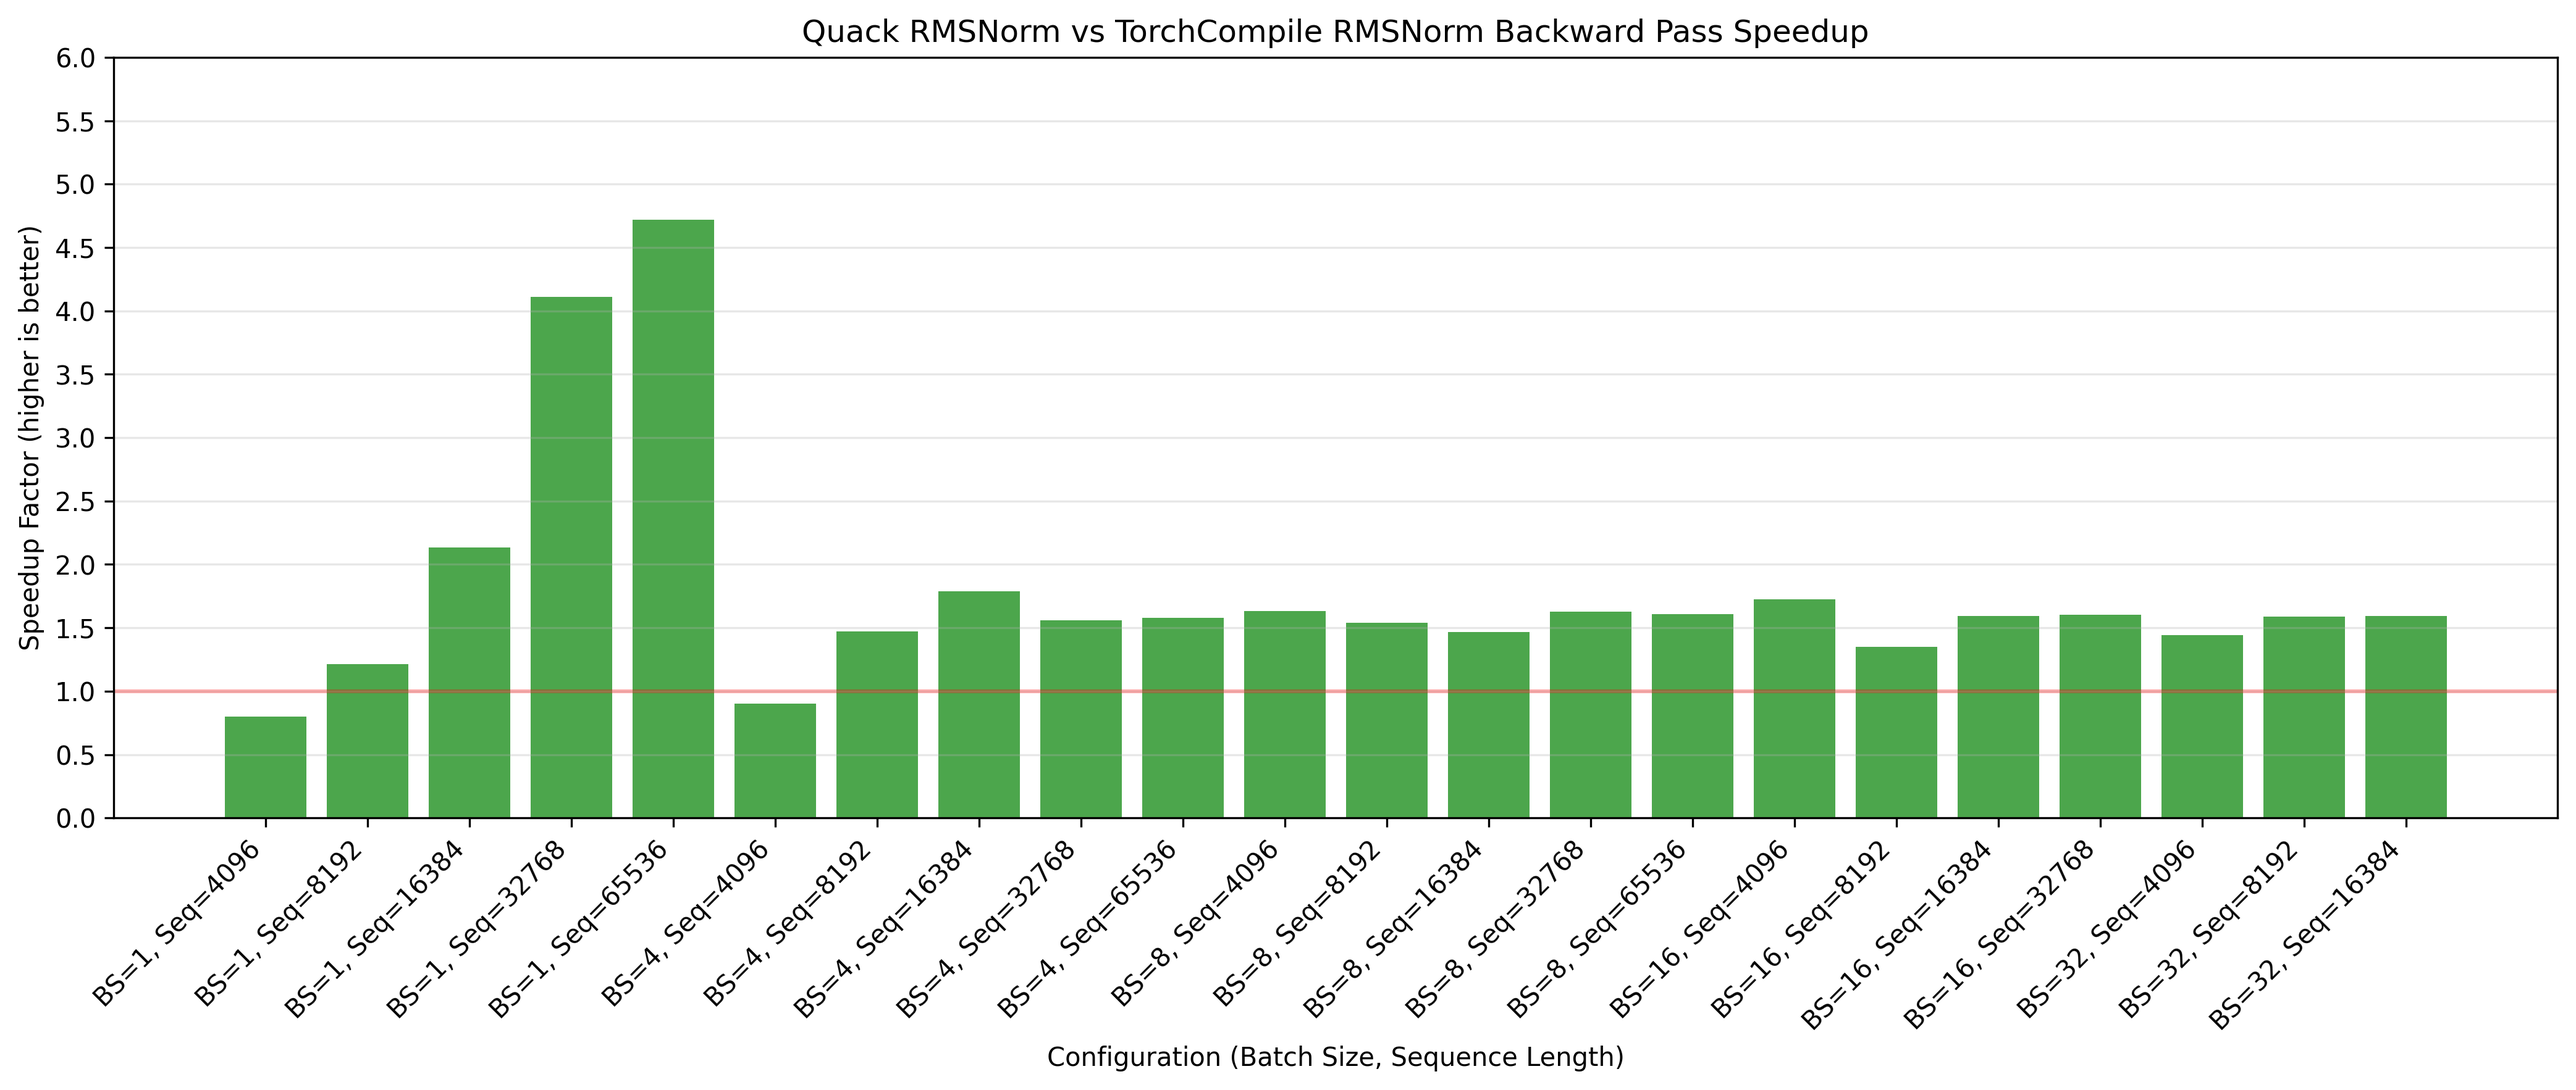
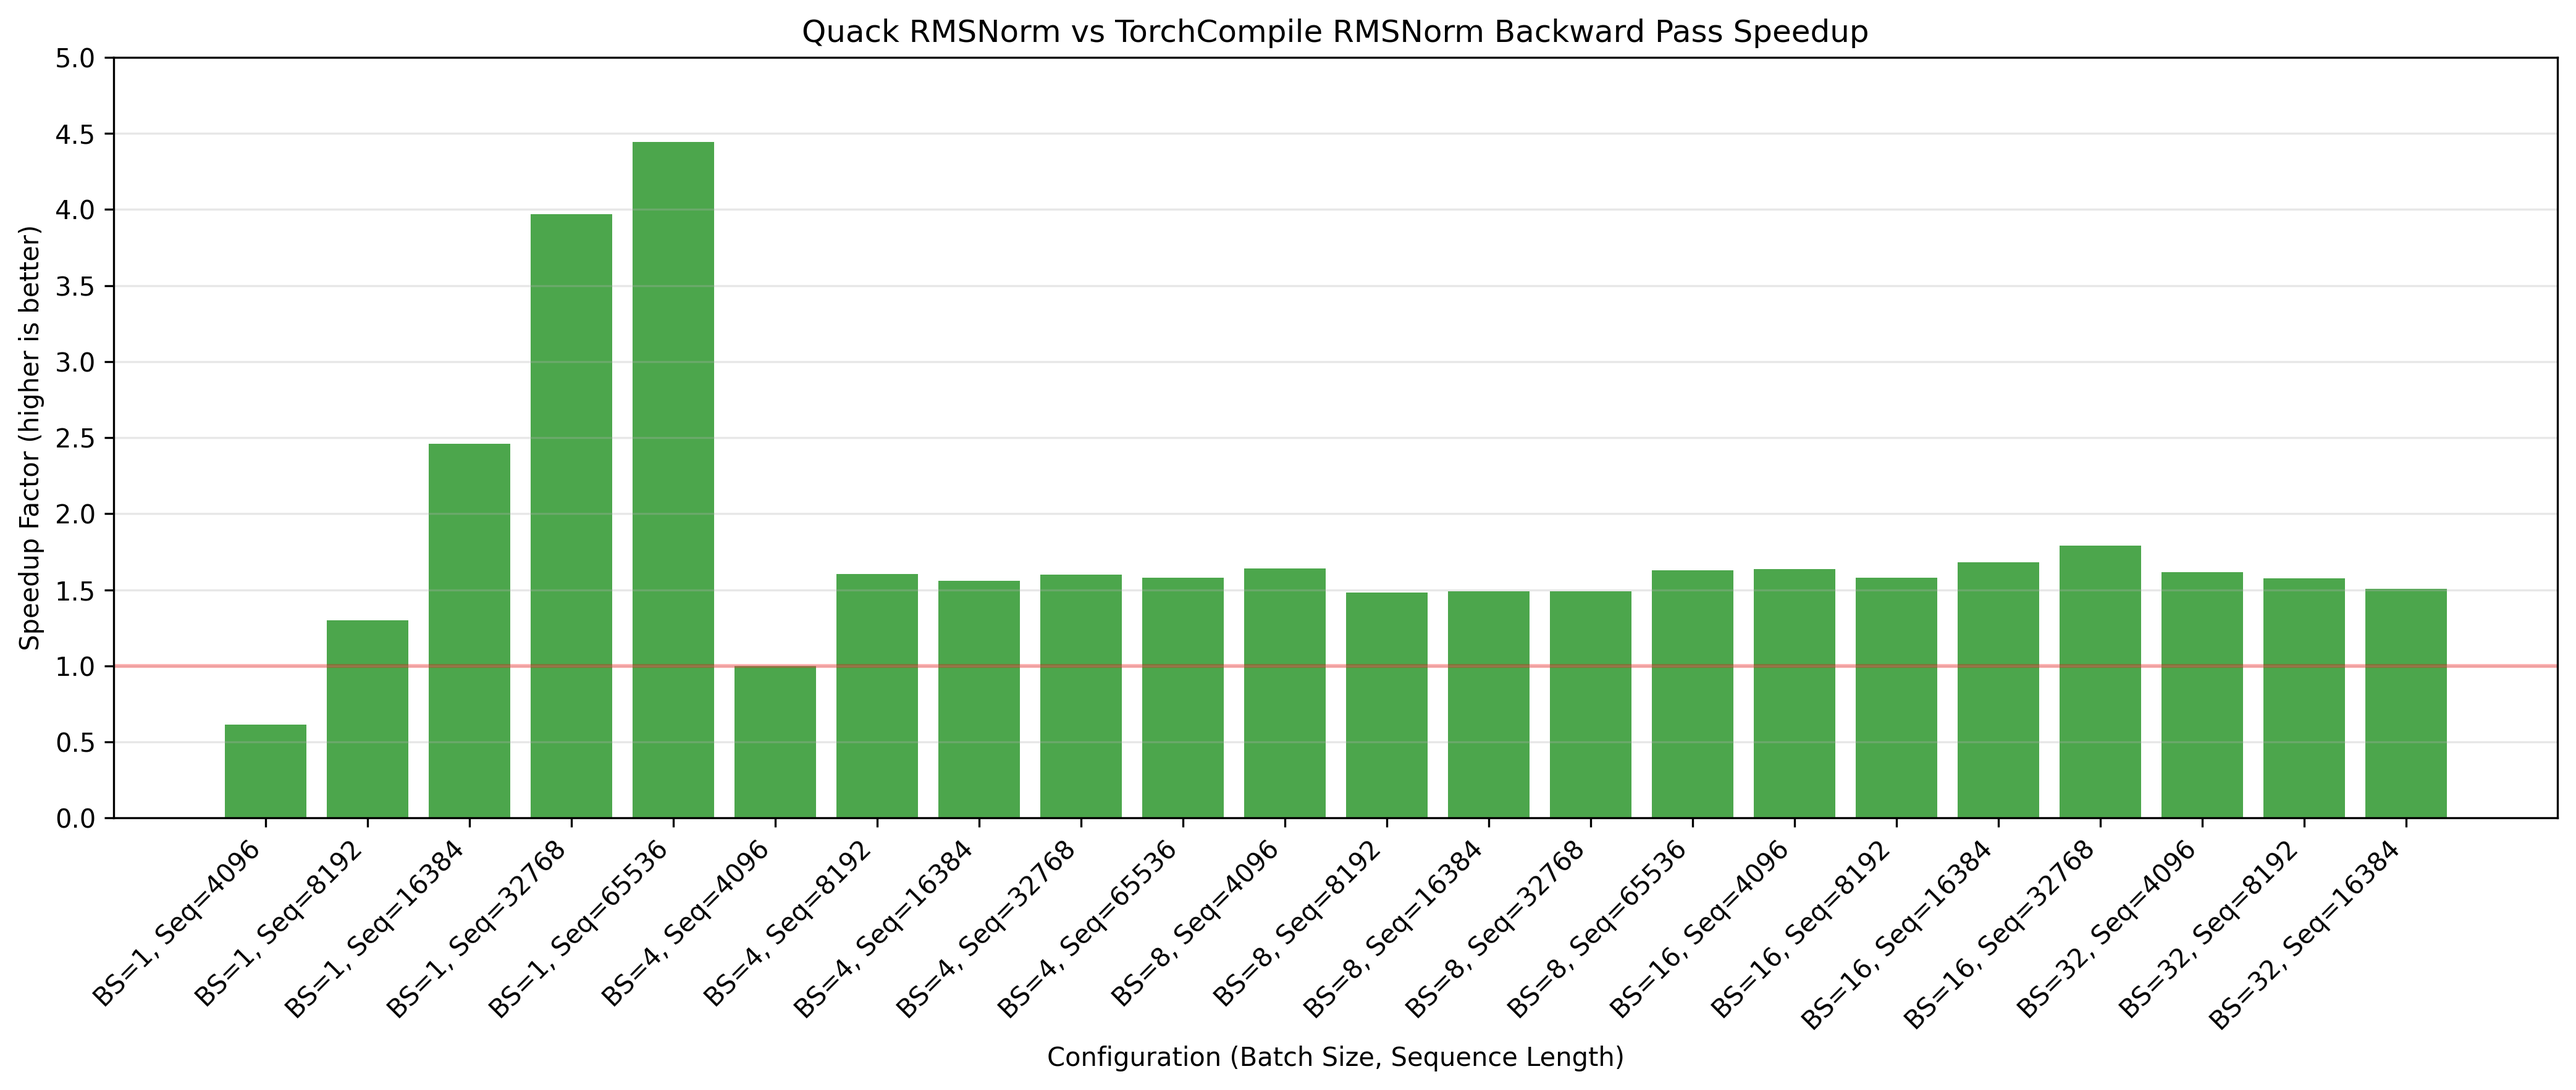
switch to triton.testing.do_bench

Changed region(s): [[0.0312, 0.4983, 0.9664, 0.6852], [0.1871, 0.1246, 0.2806, 0.2803], [0.1559, 0.4049, 0.2182, 0.5294]]

diff --git a/benchmarks/pytorch_benchmark_rmsnorm_backward.py b/benchmarks/pytorch_benchmark_rmsnorm_backward.py
@@ -5,6 +5,7 @@ import numpy as np
 
 import torch
 import torch.nn as nn
+import triton.testing
 
 from quack.rmsnorm import QuackRMSNorm
 from tabulate import tabulate
@@ -30,37 +31,35 @@ def benchmark_backward_implementation(
     num_iterations=100,
     warmup_iterations=10,
 ):
-    """Benchmark a specific implementation's backward pass and return timing results."""
+    """Benchmark a specific implementation's backward pass and return timing results using Triton's do_bench."""
     # Create gradient tensor of the same shape as the output
     grad_output = torch.randn_like(input_data)
 
-    # Warmup
-    for _ in range(warmup_iterations):
+    # Convert iterations to time in ms (approximate)
+    # We'll use warmup_ms and rep_ms instead of iterations to ensure consistent timing
+    warmup_ms = 25  # Default warmup time in ms
+    rep_ms = 100  # Default repetition time in ms
+
+    # Define the function to benchmark
+    def benchmark_fn():
         input_data_clone = input_data.clone().requires_grad_(True)
         output = model(input_data_clone)
         output.backward(grad_output)
-        torch.cuda.synchronize()
+        return output  # Return is needed for do_bench but not used
 
-    # Benchmark
-    start_event = torch.cuda.Event(enable_timing=True)
-    end_event = torch.cuda.Event(enable_timing=True)
+    # Use Triton's do_bench to benchmark the function
+    # This ensures L2 cache is cleared between runs
+    avg_time_ms = triton.testing.do_bench(
+        benchmark_fn, warmup=warmup_ms, rep=rep_ms, return_mode="mean"
+    )
 
-    start_event.record()
-    for _ in range(num_iterations):
-        input_data_clone = input_data.clone().requires_grad_(True)
-        output = model(input_data_clone)
-        output.backward(grad_output)
-    end_event.record()
-
-    torch.cuda.synchronize()
-
-    elapsed_time_ms = start_event.elapsed_time(end_event)
-    avg_time_ms = elapsed_time_ms / num_iterations
+    # Calculate total time (approximate)
+    total_time_ms = avg_time_ms * num_iterations
 
     return {
         "implementation": implementation_name,
         "avg_time_ms": avg_time_ms,
-        "total_time_ms": elapsed_time_ms,
+        "total_time_ms": total_time_ms,
     }
 
 

diff --git a/benchmarks/pytorch_benchmark_rmsnorm.py b/benchmarks/pytorch_benchmark_rmsnorm.py
@@ -5,6 +5,7 @@ import numpy as np
 
 import torch
 import torch.nn as nn
+import triton.testing
 
 from quack.rmsnorm import QuackRMSNorm
 from tabulate import tabulate
@@ -30,28 +31,29 @@ def benchmark_implementation(
     num_iterations=100,
     warmup_iterations=10,
 ):
-    """Benchmark a specific implementation and return timing results."""
-    # Warmup
-    for _ in range(warmup_iterations):
-        _ = model(input_data)
-    torch.cuda.synchronize()
+    """Benchmark a specific implementation and return timing results using Triton's do_bench."""
+    # Convert iterations to time in ms (approximate)
+    # We'll use warmup_ms and rep_ms instead of iterations to ensure consistent timing
+    warmup_ms = 25  # Default warmup time in ms
+    rep_ms = 100  # Default repetition time in ms
 
-    # Benchmark
-    start_event = torch.cuda.Event(enable_timing=True)
-    end_event = torch.cuda.Event(enable_timing=True)
-    start_event.record()
-    for _ in range(num_iterations):
-        _ = model(input_data)
-    end_event.record()
-    torch.cuda.synchronize()
+    # Define the function to benchmark
+    def benchmark_fn():
+        return model(input_data)
 
-    elapsed_time_ms = start_event.elapsed_time(end_event)
-    avg_time_ms = elapsed_time_ms / num_iterations
+    # Use Triton's do_bench to benchmark the function
+    # This ensures L2 cache is cleared between runs
+    avg_time_ms = triton.testing.do_bench(
+        benchmark_fn, warmup=warmup_ms, rep=rep_ms, return_mode="mean"
+    )
+
+    # Calculate total time (approximate)
+    total_time_ms = avg_time_ms * num_iterations
 
     return {
         "implementation": implementation_name,
         "avg_time_ms": avg_time_ms,
-        "total_time_ms": elapsed_time_ms,
+        "total_time_ms": total_time_ms,
     }
 
 
